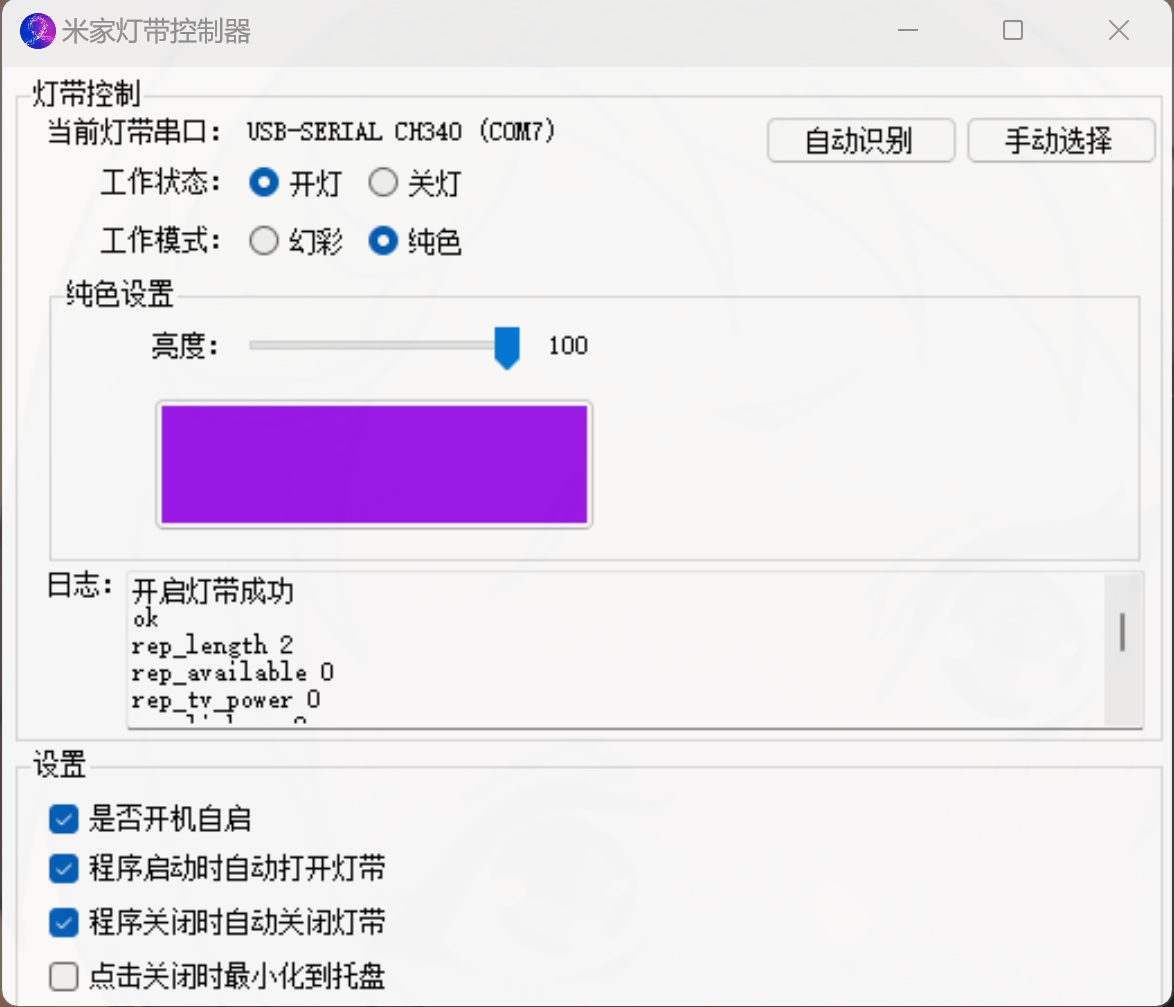
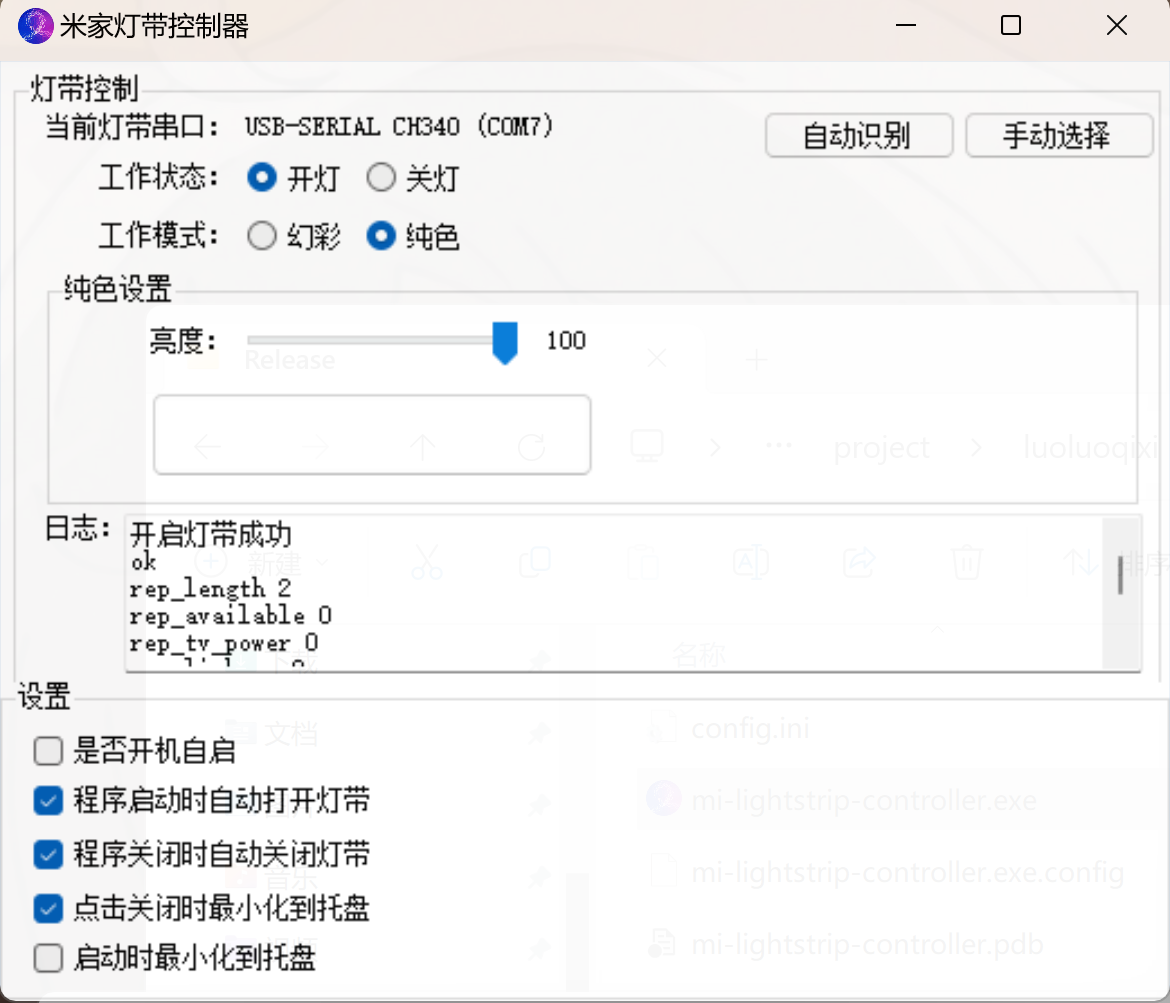
fix startup hide window bug

Changed region(s): [[0.0, 0.0, 1.0, 1.0], [0.2154, 0.0927, 0.4923, 0.2782], [0.4308, 0.6491, 0.4615, 0.68]]

diff --git a/src/Window/MainWindow.Designer.cs b/src/Window/MainWindow.Designer.cs
@@ -90,7 +90,7 @@
             this.comGroup.Controls.Add(this.normalPanel);
             this.comGroup.Location = new System.Drawing.Point(13, 13);
             this.comGroup.Name = "comGroup";
-            this.comGroup.Size = new System.Drawing.Size(1190, 664);
+            this.comGroup.Size = new System.Drawing.Size(1190, 612);
             this.comGroup.TabIndex = 99;
             this.comGroup.TabStop = false;
             this.comGroup.Text = "灯带控制";
@@ -183,7 +183,7 @@
             // 
             this.logText.Anchor = ((System.Windows.Forms.AnchorStyles)(((System.Windows.Forms.AnchorStyles.Bottom | System.Windows.Forms.AnchorStyles.Left) 
             | System.Windows.Forms.AnchorStyles.Right)));
-            this.logText.Location = new System.Drawing.Point(115, 490);
+            this.logText.Location = new System.Drawing.Point(115, 438);
             this.logText.Multiline = true;
             this.logText.Name = "logText";
             this.logText.ScrollBars = System.Windows.Forms.ScrollBars.Vertical;
@@ -194,7 +194,7 @@
             // 
             this.label3.Anchor = ((System.Windows.Forms.AnchorStyles)((System.Windows.Forms.AnchorStyles.Bottom | System.Windows.Forms.AnchorStyles.Left)));
             this.label3.AutoSize = true;
-            this.label3.Location = new System.Drawing.Point(29, 490);
+            this.label3.Location = new System.Drawing.Point(29, 438);
             this.label3.Name = "label3";
             this.label3.Size = new System.Drawing.Size(93, 27);
             this.label3.TabIndex = 10;
@@ -251,7 +251,7 @@
             this.purePanel.Controls.Add(this.intensityTrackBar);
             this.purePanel.Location = new System.Drawing.Point(34, 201);
             this.purePanel.Name = "purePanel";
-            this.purePanel.Size = new System.Drawing.Size(1132, 283);
+            this.purePanel.Size = new System.Drawing.Size(1132, 231);
             this.purePanel.TabIndex = 15;
             this.purePanel.TabStop = false;
             this.purePanel.Text = "纯色设置";
@@ -270,7 +270,7 @@
             // 
             this.selectColorBtn.Location = new System.Drawing.Point(108, 116);
             this.selectColorBtn.Name = "selectColorBtn";
-            this.selectColorBtn.Size = new System.Drawing.Size(459, 135);
+            this.selectColorBtn.Size = new System.Drawing.Size(459, 85);
             this.selectColorBtn.TabIndex = 0;
             this.selectColorBtn.UseVisualStyleBackColor = true;
             this.selectColorBtn.Click += new System.EventHandler(this.SelectColorBtn_Click);
@@ -305,7 +305,7 @@
             this.normalPanel.Controls.Add(this.label5);
             this.normalPanel.Location = new System.Drawing.Point(34, 201);
             this.normalPanel.Name = "normalPanel";
-            this.normalPanel.Size = new System.Drawing.Size(1132, 283);
+            this.normalPanel.Size = new System.Drawing.Size(1132, 231);
             this.normalPanel.TabIndex = 14;
             this.normalPanel.TabStop = false;
             this.normalPanel.Text = "幻彩设置";
@@ -322,22 +322,23 @@
             // 
             // groupBox1
             // 
-            this.groupBox1.Anchor = ((System.Windows.Forms.AnchorStyles)(((System.Windows.Forms.AnchorStyles.Bottom | System.Windows.Forms.AnchorStyles.Left) 
-            | System.Windows.Forms.AnchorStyles.Right)));
             this.groupBox1.Controls.Add(this.autoMinimize);
             this.groupBox1.Controls.Add(this.closeHideWindow);
             this.groupBox1.Controls.Add(this.autoCloseLightStrip);
             this.groupBox1.Controls.Add(this.autoOpenLightStrip);
             this.groupBox1.Controls.Add(this.isAutoStarup);
-            this.groupBox1.Location = new System.Drawing.Point(13, 683);
+            this.groupBox1.Dock = System.Windows.Forms.DockStyle.Bottom;
+            this.groupBox1.Location = new System.Drawing.Point(0, 690);
             this.groupBox1.Name = "groupBox1";
-            this.groupBox1.Size = new System.Drawing.Size(1190, 314);
+            this.groupBox1.Size = new System.Drawing.Size(1214, 319);
             this.groupBox1.TabIndex = 98;
             this.groupBox1.TabStop = false;
             this.groupBox1.Text = "设置";
             // 
             // autoMinimize
             // 
+            this.autoMinimize.Anchor = ((System.Windows.Forms.AnchorStyles)(((System.Windows.Forms.AnchorStyles.Top | System.Windows.Forms.AnchorStyles.Bottom) 
+            | System.Windows.Forms.AnchorStyles.Left)));
             this.autoMinimize.AutoSize = true;
             this.autoMinimize.Location = new System.Drawing.Point(34, 258);
             this.autoMinimize.Name = "autoMinimize";
@@ -349,6 +350,8 @@
             // 
             // closeHideWindow
             // 
+            this.closeHideWindow.Anchor = ((System.Windows.Forms.AnchorStyles)(((System.Windows.Forms.AnchorStyles.Top | System.Windows.Forms.AnchorStyles.Bottom) 
+            | System.Windows.Forms.AnchorStyles.Left)));
             this.closeHideWindow.AutoSize = true;
             this.closeHideWindow.Location = new System.Drawing.Point(34, 209);
             this.closeHideWindow.Name = "closeHideWindow";
@@ -360,6 +363,8 @@
             // 
             // autoCloseLightStrip
             // 
+            this.autoCloseLightStrip.Anchor = ((System.Windows.Forms.AnchorStyles)(((System.Windows.Forms.AnchorStyles.Top | System.Windows.Forms.AnchorStyles.Bottom) 
+            | System.Windows.Forms.AnchorStyles.Left)));
             this.autoCloseLightStrip.AutoSize = true;
             this.autoCloseLightStrip.Location = new System.Drawing.Point(34, 156);
             this.autoCloseLightStrip.Name = "autoCloseLightStrip";
@@ -371,6 +376,8 @@
             // 
             // autoOpenLightStrip
             // 
+            this.autoOpenLightStrip.Anchor = ((System.Windows.Forms.AnchorStyles)(((System.Windows.Forms.AnchorStyles.Top | System.Windows.Forms.AnchorStyles.Bottom) 
+            | System.Windows.Forms.AnchorStyles.Left)));
             this.autoOpenLightStrip.AutoSize = true;
             this.autoOpenLightStrip.Location = new System.Drawing.Point(34, 102);
             this.autoOpenLightStrip.Name = "autoOpenLightStrip";
@@ -382,6 +389,8 @@
             // 
             // isAutoStarup
             // 
+            this.isAutoStarup.Anchor = ((System.Windows.Forms.AnchorStyles)(((System.Windows.Forms.AnchorStyles.Top | System.Windows.Forms.AnchorStyles.Bottom) 
+            | System.Windows.Forms.AnchorStyles.Left)));
             this.isAutoStarup.AutoSize = true;
             this.isAutoStarup.Location = new System.Drawing.Point(34, 52);
             this.isAutoStarup.Name = "isAutoStarup";

diff --git a/src/Window/MainWindow.cs b/src/Window/MainWindow.cs
@@ -70,11 +70,6 @@ namespace mi_lightstrip_controller
                     MessageBox.Show("保存的串口未找到: " + Setting.Instance.Com, "错误", MessageBoxButtons.OK);
                 }
             }
-            if (Setting.Instance.AutoMinimize)
-            {
-                ShowInTaskbar = false;
-                Opacity = 0;
-            }
         }
         private async Task SetCom(ComObj com)
         {
@@ -213,8 +208,6 @@ namespace mi_lightstrip_controller
             if (Setting.Instance.AutoMinimize)
             {
                 Hide();
-                ShowInTaskbar = true;
-                Opacity = 1;
             }
         }
         private void MainNotifyIcon_MouseDoubleClick(object sender, MouseEventArgs e)